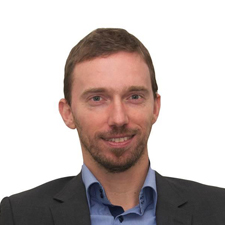
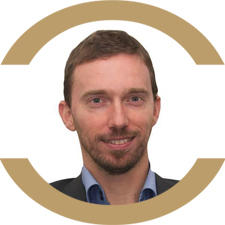
update team pictures

diff --git a/index.html b/index.html
@@ -347,10 +347,7 @@
             <div class="row">
                 <div class="col-sm-4">
                     <div class="team-member">
-                        <div class="img-responsive ">
-                            <img src="img/equipe/logo_cercle_1.png" class="img-circle logo_circle" alt="">
-                            <img src="img/equipe/hug_denis.jpg" class="img-circle" alt="">
-                        </div>
+                        <img src="img/equipe/hug_denis.jpg" class="img-circle img-responsive" alt="">
                         <h4>Denis HUGGENBERGER</h4>
                         <p class="text-muted">Gérant Fondateur, responsable de distribution</p>
                         <ul class="list-inline social-buttons">
@@ -363,10 +360,7 @@
                 </div>
                 <div class="col-sm-4">
                     <div class="team-member">
-                        <div class="img-responsive ">
-                            <img src="img/equipe/logo_cercle_2.png" class="img-circle logo_circle" alt="">
-                            <img src="img/equipe/kar_murat.jpg" class="img-circle" alt="">
-                        </div>
+                        <img src="img/equipe/kar_murat.jpg" class="img-circle img-responsive" alt="">
                         <h4>Murat KARAKUS</h4>
                         <p class="text-muted">Gérant Fondateur</p>
                         <ul class="list-inline social-buttons">
@@ -379,10 +373,7 @@
                 </div>
                 <div class="col-sm-4">
                     <div class="team-member">
-                        <div class="img-responsive ">
-                            <img src="img/equipe/logo_cercle_3.png" class="img-circle logo_circle" alt="">
-                            <img src="img/equipe/gra_christophe.jpg" class="img-circle" alt="">
-                        </div>
+                        <img src="img/equipe/gra_christophe.jpg" class="img-circle img-responsive" alt="">
                         <h4>Christophe GARCIA MAGILLISSEN</h4>
                         <p class="text-muted">Gérant Fondateur</p>
                         <ul class="list-inline social-buttons">
